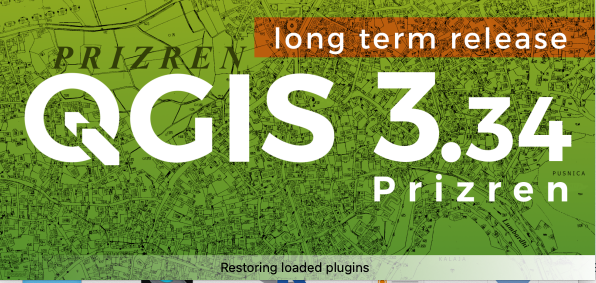
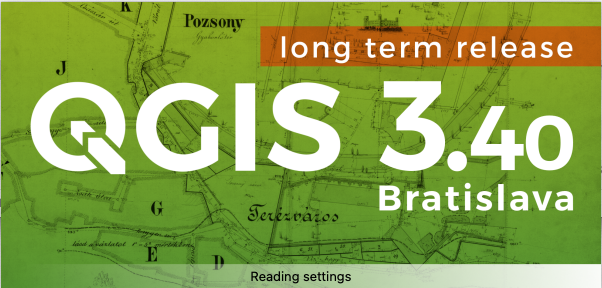
Built site for gh-pages

diff --git a/2025/weeks/week01/slides.html b/2025/weeks/week01/slides.html
@@ -257,7 +257,7 @@ Ivan Lizarazo
 </section>
 <section id="to-do-before-tomorrow" class="slide level2">
 <h2>To do before tomorrow</h2>
-<p>Install <a href="https://qgis.org/download/">QGIS 3.34.11 ‘Prizren’</a> in your computer.</p>
+<p>Install <a href="https://qgis.org/download/">QGIS 3.40.5 ‘Bratislava’</a> in your computer.</p>
 <p align="center">
 <img src="figures/QGIS.png" width="65%" height="65%">
 </p>
